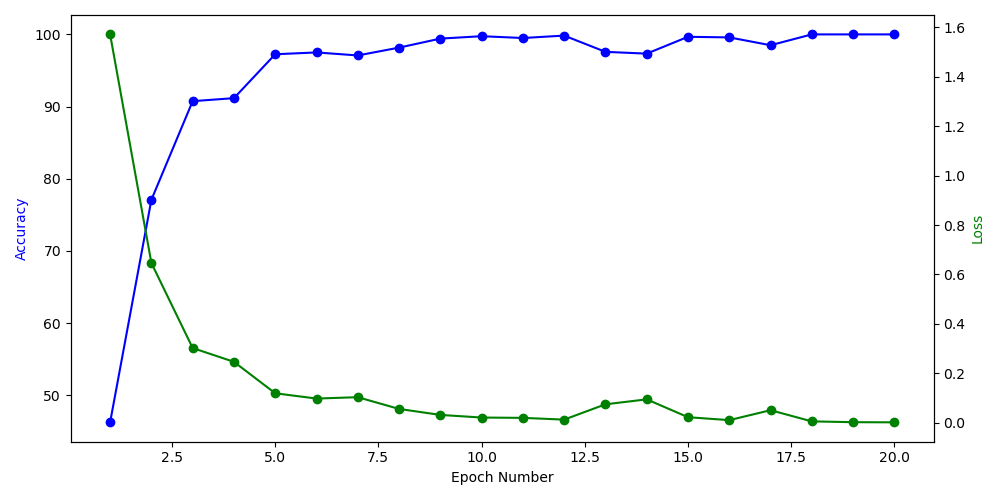
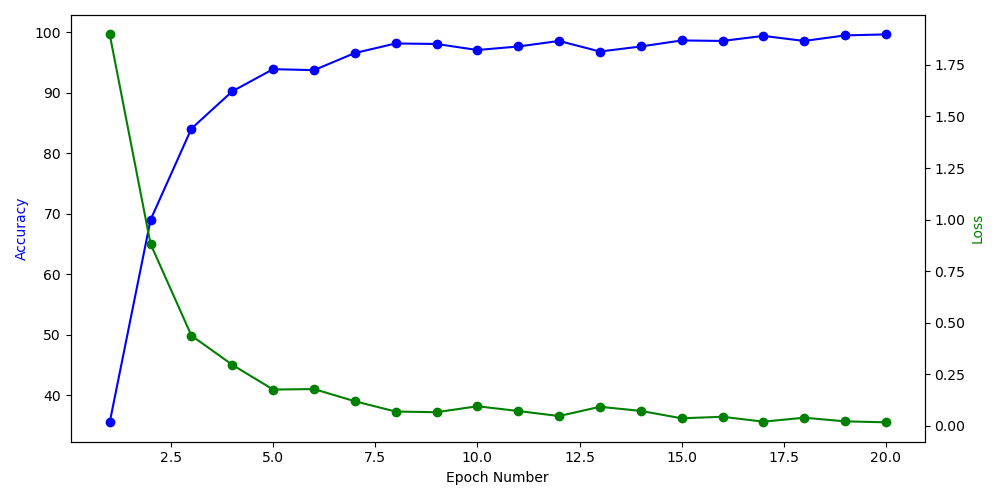
Script for speechcmd enabled but too slow

diff --git a/models/CustomCNN.py b/models/CustomCNN.py
@@ -8,14 +8,14 @@ import brevitas.nn as qnn
 
 class customNet(nn.Module):
     ## Set max shape = (32, 32)
-    def __init__(self):
+    def __init__(self, num_class = 10):
         super().__init__()
         self.conv1 = nn.Conv2d(1, 6, 3) # (6 ,30, 30)
         self.pool = nn.MaxPool2d(2, 2)  # (6, 15, 15)
         self.conv2 = nn.Conv2d(6, 16, 3) # (16, 13, 13)
         self.fc1 = nn.Linear(576, 128)
         self.fc2 = nn.Linear(128, 64)
-        self.fc3 = nn.Linear(64, 10)
+        self.fc3 = nn.Linear(64, num_class)
 
     def forward(self, x):
         x = self.pool(F.relu(self.conv1(x)))
@@ -27,7 +27,7 @@ class customNet(nn.Module):
         return x
 
 class customSNet(nn.Module):
-    def __init__(self, num_steps, beta, spike_grad=snn.surrogate.fast_sigmoid(slope=25)):
+    def __init__(self, num_steps, beta, spike_grad=snn.surrogate.fast_sigmoid(slope=25), num_class=10):
         super().__init__()
         self.num_steps = num_steps
         self.conv1 = nn.Conv2d(1, 6, 3)
@@ -39,7 +39,7 @@ class customSNet(nn.Module):
         self.lif3 = snn.Leaky(beta=beta, spike_grad=spike_grad)
         self.fc2 = nn.Linear(128, 64)
         self.lif4 = snn.Leaky(beta=beta, spike_grad=spike_grad)
-        self.fc3 = nn.Linear(64, 10)
+        self.fc3 = nn.Linear(64, num_class)
         self.lif5 = snn.Leaky(beta=beta, spike_grad=spike_grad)
 
     def forward(self, x):
@@ -77,7 +77,7 @@ class customSNet(nn.Module):
 ### Quantized versions of the CNN ###
 class qtCNet(nn.Module):
     ## Set max shape = (32, 32)
-    def __init__(self):
+    def __init__(self, num_class = 10):
         super(qtCNet, self).__init__()
         self.quant = torch.quantization.QuantStub()
         self.conv1 = nn.Conv2d(1, 6, 3) # (6 ,30, 30)
@@ -86,7 +86,7 @@ class qtCNet(nn.Module):
         self.relu = nn.ReLU(inplace=True)
         self.fc1 = nn.Linear(576, 128)
         self.fc2 = nn.Linear(128, 64)
-        self.fc3 = nn.Linear(64, 10)
+        self.fc3 = nn.Linear(64, num_class)
         self.dequant = torch.quantization.DeQuantStub()
 
     def forward(self, x):

diff --git a/main.py b/main.py
@@ -59,6 +59,7 @@ def main(args):
                                             hop_length=HOP_LENGTH, 
                                             n_samples=N_MFCC)
         train_ds, test_ds, full_ds_len, train_num, test_num = trainTestSplit(args.train_partition, args.test_partition, full_ds)
+        num_classes = 10
     elif datasetType == "rmse":
         full_ds = customDataset.RMSEDataset(args.data_path,
                                             sample_rate=SAMPLE_RATE,
@@ -67,6 +68,7 @@ def main(args):
                                             frame_length=FRAME_LENGTH,
                                             hop_length = HOP_LENGTH)
         train_ds, test_ds, full_ds_len, train_num, test_num = trainTestSplit(args.train_partition, args.test_partition, full_ds)
+        num_classes = 10
     elif datasetType == "speechcommand":
         SAMPLE_RATE = 16000
         # full_ds = mfcc_dataset.MFCCDatasetv2("speechcommand/SpeechCommands/speech_commands_v0.02/",
@@ -82,6 +84,7 @@ def main(args):
         full_ds_len = train_num + test_num
         print(f"Train data: {train_num}")
         print(f"Test data: {test_num}")
+        num_classes = 35
     else:
         print("Invalid dataset")
         raise RuntimeError
@@ -118,9 +121,9 @@ def main(args):
         model_full = AlexCNN.AlexSpikingNet(device, 0.5, surrogate.fast_sigmoid(slope=0.75))
         model = model_full.net
     elif modelName == "CustomSCNN":
-        model = CustomCNN.customSNet(args.num_steps, 0.5).to(device)
+        model = CustomCNN.customSNet(args.num_steps, 0.5, num_class = num_classes).to(device)
     else:
-        model = CustomCNN.customNet().to(device)
+        model = CustomCNN.customNet(num_class = num_classes).to(device)
     
     # Setting up optimizers and tracking
     criterion = nn.CrossEntropyLoss()

diff --git a/datasets/customDataset.py b/datasets/customDataset.py
@@ -2,7 +2,6 @@ import os
 import numpy as np
 import pandas as pd
 import librosa
-import unicodedata
 
 import torch
 from torch.utils.data import Dataset
@@ -69,11 +68,8 @@ class fetchData(Dataset):
         singleFeatPath = os.path.join(self.featurePath, listFeature[index])
         data = torch.load(singleFeatPath)
         label = listFeature[index].split('_')[0]
-        if len(label)>1:
-            label = int("".join([str(ord(character)) for character in label]))
-        else:
-            label = int(label)
-        return torch.tensor(data), torch.tensor(label)
+        label = int(label)
+        return data, label
     
     def __len__(self):
         return self.len
